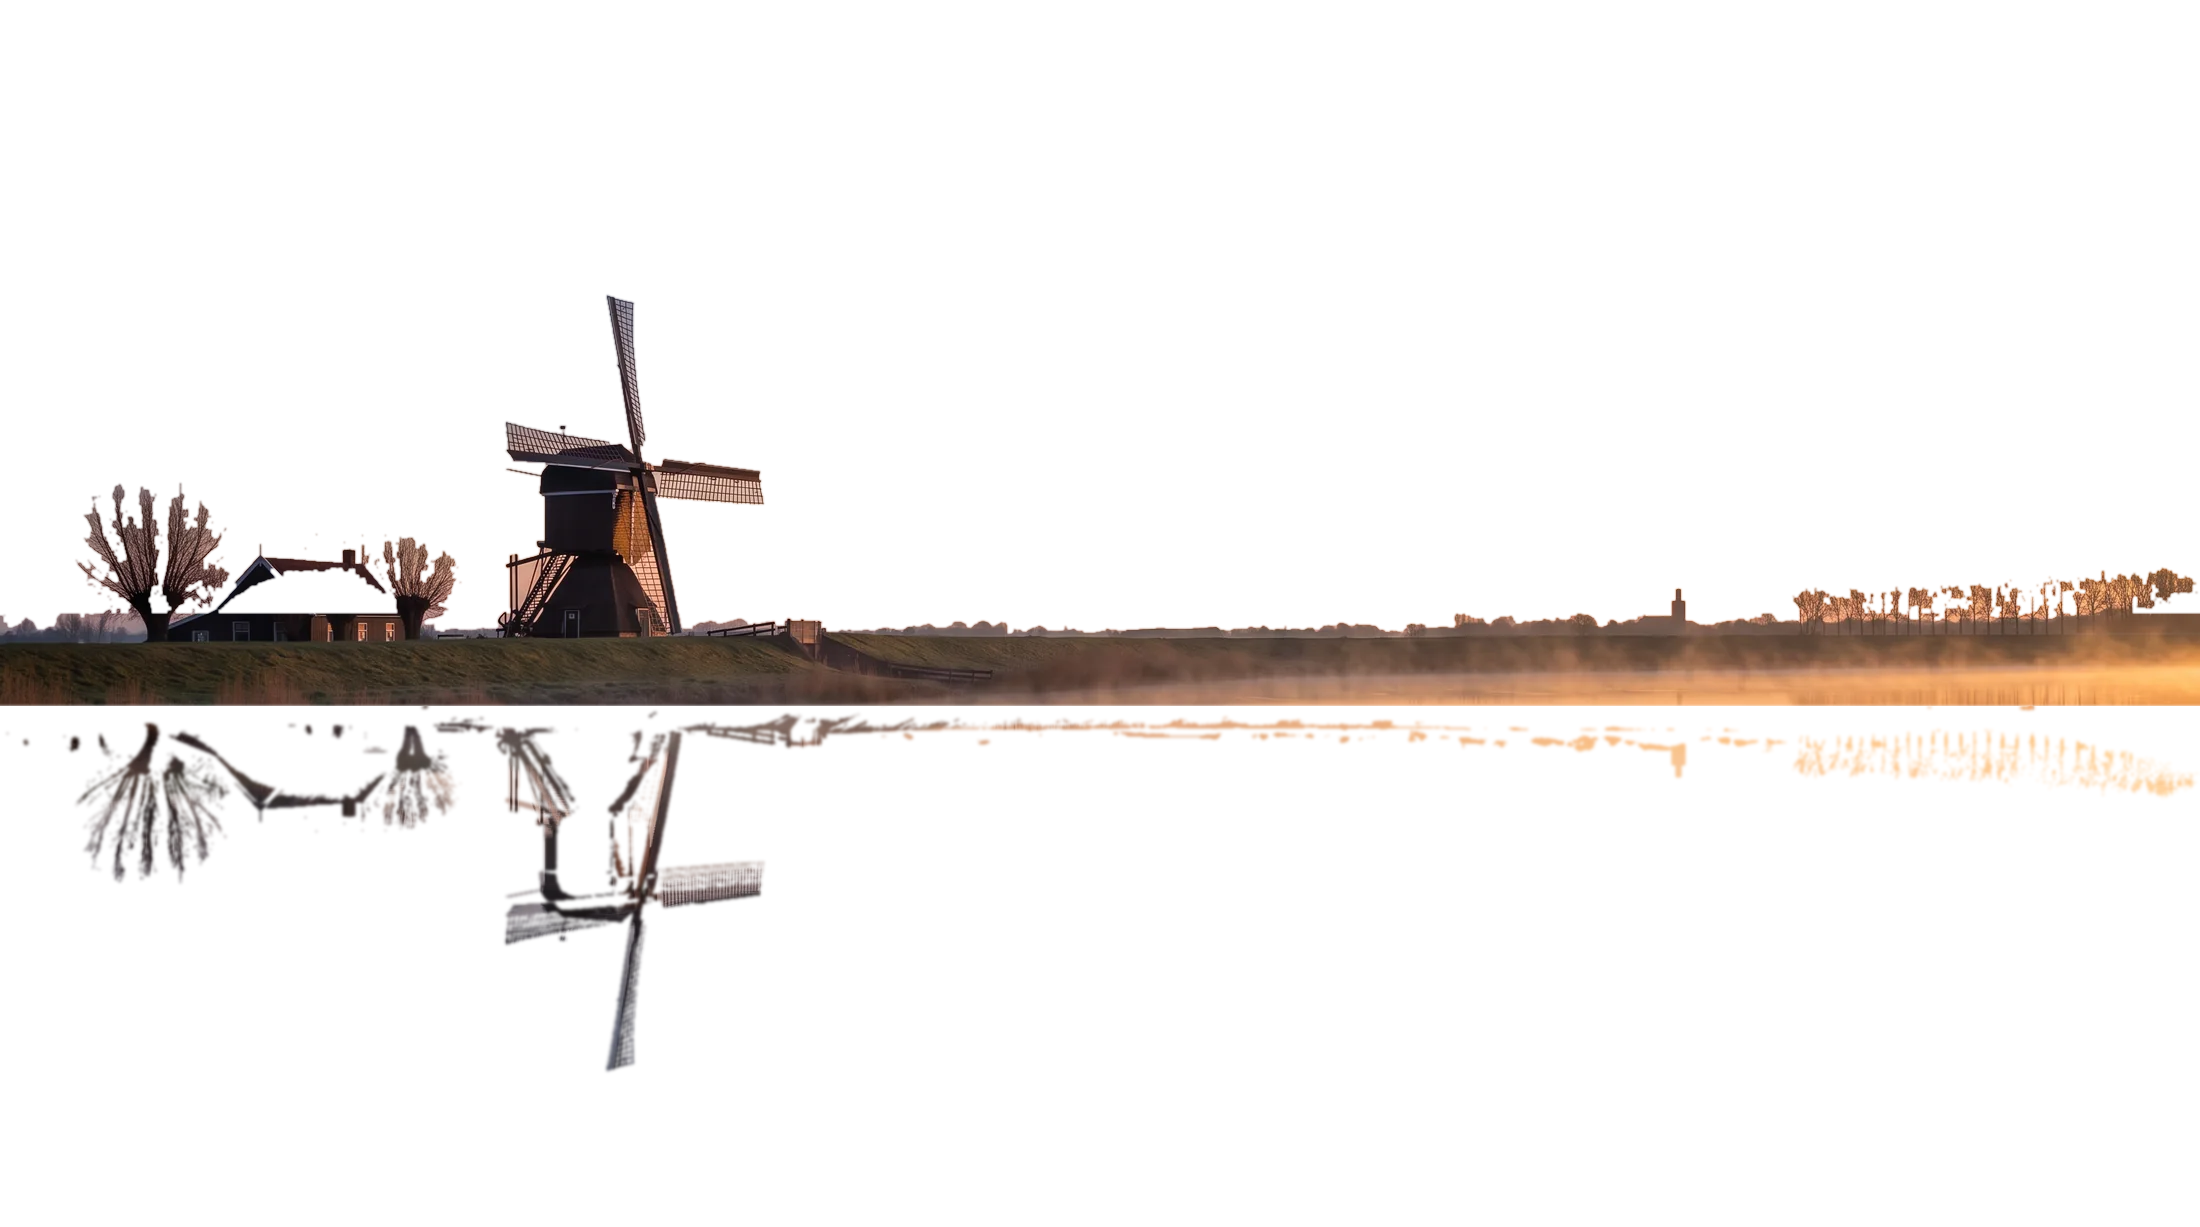
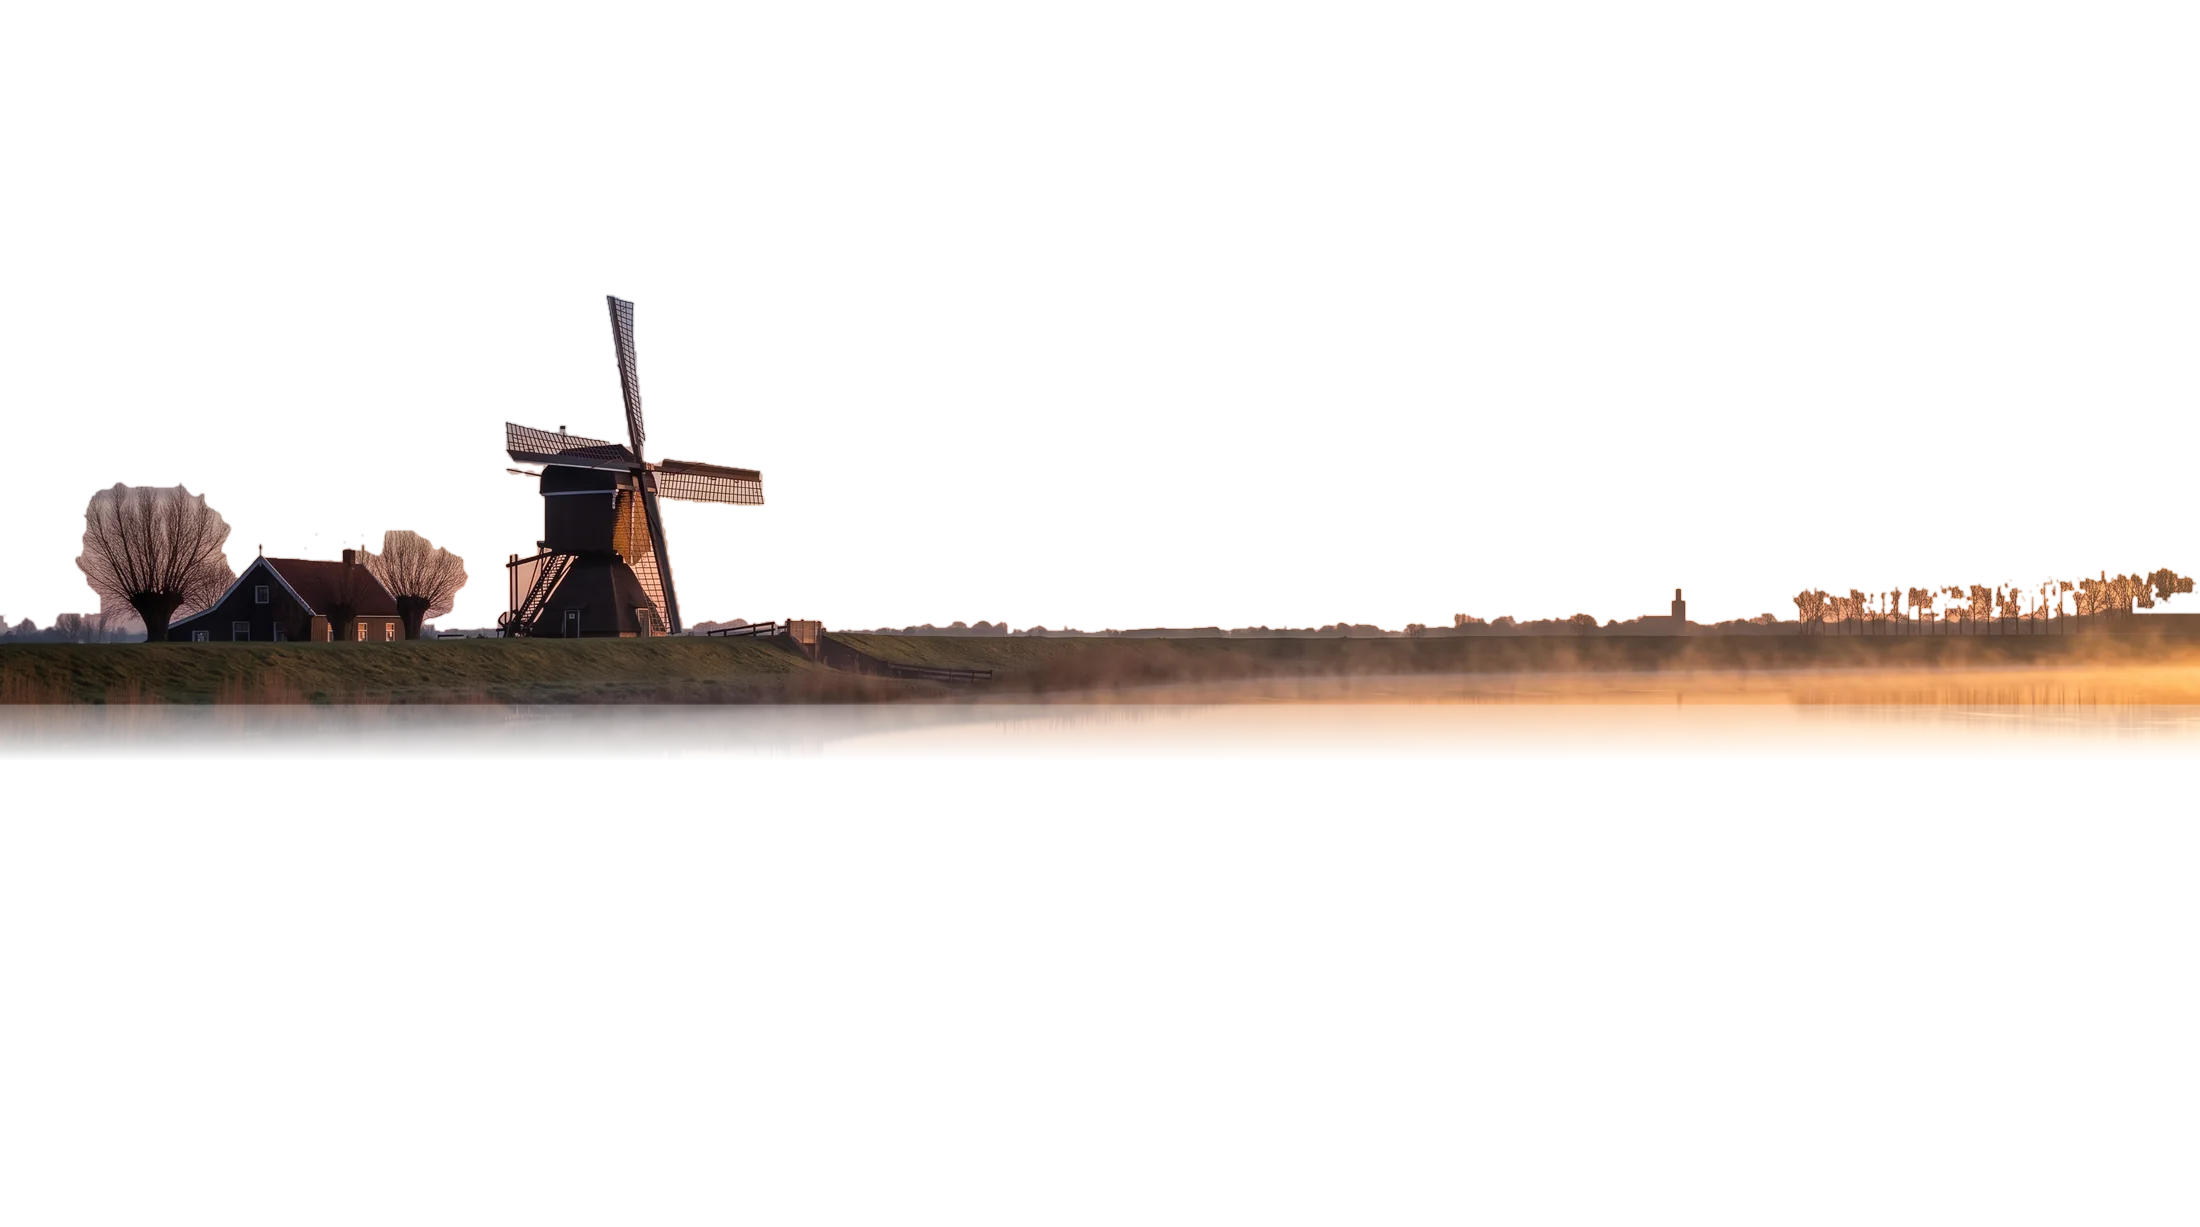
Hero: boerderij en spiegeling heel, lucht tot de bovenrand, header als pil
Het dak van de boerderij viel half buiten het molenmasker (te licht voor
de helderheidsdrempel) en de nevelband schemerde erdoorheen; de diepte-
kaart doet nu mee in het masker. De uitgesneden spiegeling sloot niet op
de echte aan en werd hakkelig; hij blijft nu in het water. In plaats
daarvan neemt de dijk een zachte strook water onder zich mee, zodat er bij
het scrollen geen harde rand tussen dijkvoet en water ontstaat.

De donkere balk boven de foto is weg: de hero heeft de kleur van de
bovenste fotorand en de foto loopt daar zacht in over. De header is vanaf
het begin een donkere glazen pil in plaats van pas na scrollen.

Claude-Session: https://claude.ai/code/session_01QicvtYBAYfMt63dRQtYt7L

Changed region(s): [[0.0, 0.5575, 1.0, 0.8672], [0.0309, 0.3716, 0.2164, 0.5265], [0.2164, 0.3716, 0.2473, 0.4026]]

diff --git a/app/globals.css b/app/globals.css
@@ -727,8 +727,10 @@ body {
 }
 
 /* Lucht boven de fotoplaten: van nacht bovenin naar de bovenkleur van de foto */
+/* De hero begint bovenaan de pagina: de lucht loopt door tot de rand, in de
+   kleur van de bovenste fotorand, zodat er geen donkere balk boven de foto staat. */
 .hero-lucht-foto {
-  background: linear-gradient(180deg, #0a0a0c 0%, #14121f 16%, #2c2745 30%, var(--hero-lucht-top, #5c5f93) 40%, var(--hero-lucht-top, #5c5f93) 100%);
+  background: var(--hero-lucht-top, #63618b);
 }
 .dageraad-lucht-foto {
   background: linear-gradient(180deg, #0a0a0c 0%, #12161e 16%, #3a4658 30%, var(--hero-lucht-top, #7b89a3) 40%, var(--hero-lucht-top, #7b89a3) 100%);
@@ -738,6 +740,11 @@ body {
 .lucht-masker {
   -webkit-mask-image: linear-gradient(180deg, transparent 0%, rgba(0,0,0,0.5) 10%, #000 26%);
   mask-image: linear-gradient(180deg, transparent 0%, rgba(0,0,0,0.5) 10%, #000 26%);
+}
+/* In de hero op brede schermen: zachte overgang van de egale kleur erboven naar de foto */
+.lucht-masker-zacht {
+  -webkit-mask-image: linear-gradient(180deg, transparent 0%, #000 14%);
+  mask-image: linear-gradient(180deg, transparent 0%, #000 14%);
 }
 
 /* Nevel drijft traag zijwaarts; het voorgrondriet wiegt in tegenfase */

diff --git a/components/home/PolderFoto.tsx b/components/home/PolderFoto.tsx
@@ -6,7 +6,7 @@
 // de verschuiving bij scrollen en muis verschilt per laag.
 //
 //   ver   lucht, horizon, water        blijft 30% achter bij de scroll
-//   dijk  molen, boerderij, wilgen,    22%   (één stuk grond: niets zweeft)
+//   dijk  molen, boerderij, wilgen,    25%   (één stuk grond: niets zweeft)
 //         dijkband
 //   nevel drijvende mist                18%
 //   riet  rietkraag aan de oever        8%
@@ -74,10 +74,10 @@ export function PolderFoto({
       aria-hidden
     >
       <Vlak naam="ver" lag={0.3} muis={5} scrollY={scrollY} muisX={muisX} muisY={muisY} reduced={reduced} schaal={1.06}>
-        <div className="absolute inset-0 lucht-masker">{laag('ver', true)}</div>
+        <div className={`absolute inset-0 ${mobielInStroom ? 'lucht-masker md:lucht-masker-zacht' : 'lucht-masker'}`}>{laag('ver', true)}</div>
       </Vlak>
 
-      <Vlak naam="dijk" lag={0.22} muis={9} scrollY={scrollY} muisX={muisX} muisY={muisY} reduced={reduced} schaal={1.06}>
+      <Vlak naam="dijk" lag={0.25} muis={9} scrollY={scrollY} muisX={muisX} muisY={muisY} reduced={reduced} schaal={1.06}>
         {laag('dijk', true)}
       </Vlak>
 

diff --git a/components/site/SiteHeader.tsx b/components/site/SiteHeader.tsx
@@ -75,10 +75,10 @@ export function SiteHeader() {
       <header className="sticky top-0 z-40 w-full pointer-events-none">
         <div className="band pt-3 sm:pt-4">
           <div
-            className={`pointer-events-auto flex items-center justify-between gap-3 rounded-[999px] px-3 sm:px-4 py-2 transition-all duration-500 ${
+            className={`pointer-events-auto flex items-center justify-between gap-3 rounded-[999px] px-3 sm:px-4 py-2 border border-[rgba(255,255,255,0.1)] backdrop-blur-xl transition-all duration-500 ${
               gescrold
-                ? 'bg-[rgba(12,12,15,0.72)] border border-[rgba(255,255,255,0.1)] shadow-[0_12px_40px_rgba(0,0,0,0.45)] backdrop-blur-xl'
-                : 'bg-transparent border border-transparent'
+                ? 'bg-[rgba(12,12,15,0.78)] shadow-[0_12px_40px_rgba(0,0,0,0.45)]'
+                : 'bg-[rgba(14,13,20,0.62)] shadow-[0_8px_30px_rgba(0,0,0,0.3)]'
             }`}
           >
             <Link href="/" className="flex items-center gap-2 pl-1 min-w-0" aria-label="FactumAI, naar de homepage">

diff --git a/components/home/Dageraad.tsx b/components/home/Dageraad.tsx
@@ -23,7 +23,7 @@ export function Dageraad({ variant }: { variant: LandschapVariant }) {
     <section
       ref={ref}
       className={`relative mt-28 overflow-hidden sm:mt-36 ${foto ? 'dageraad-lucht-foto' : 'dageraad-lucht'}`}
-      style={foto ? ({ '--hero-lucht-top': '#6b7d94' } as React.CSSProperties) : undefined}
+      style={foto ? ({ '--hero-lucht-top': '#6d7e98' } as React.CSSProperties) : undefined}
     >
       {foto ? (
         <PolderFoto scene={POLDER_DAGERAAD} muisX={muisX} muisY={muisY} x="50%" />

diff --git a/components/home/Hero.tsx b/components/home/Hero.tsx
@@ -23,7 +23,7 @@ export function Hero({ variant }: { variant: LandschapVariant }) {
     <section
       ref={ref}
       className={`relative overflow-hidden -mt-[72px] pt-[72px] md:min-h-[104svh] ${foto ? 'hero-lucht-foto' : 'hero-lucht'}`}
-      style={foto ? ({ '--hero-lucht-top': '#4a4468' } as React.CSSProperties) : undefined}
+      style={foto ? ({ '--hero-lucht-top': '#63618b' } as React.CSSProperties) : undefined}
     >
       {foto ? null : (
         <>

diff --git a/scripts/polder-lagen.py b/scripts/polder-lagen.py
@@ -112,6 +112,7 @@ def main() -> int:
     ap.add_argument("--riet-diepte", type=float, default=0.40)
     ap.add_argument("--voor-diepte", type=float, default=0.70)
     ap.add_argument("--lokaal", type=float, default=0.10, help="hoeveel donkerder dan de omgeving een silhouet moet zijn")
+    ap.add_argument("--dijk-diepte", type=float, default=0.05, help="diepte (0..1) waarboven een pixel in het venster bij de dijk hoort")
     a = ap.parse_args()
 
     master = Image.open(a.master).convert("RGB")
@@ -137,7 +138,9 @@ def main() -> int:
 
     # --- dijk: silhouet tegen de lucht binnen het venster, plus de dijkband zelf
     venster = (yy >= a.dijk_top) & (yy <= a.horizon + 0.012)
-    silhouet = donker & venster & (lum < a.dijk_drempel)
+    # Donker tegen de lucht, óf volgens de dieptekaart dichterbij dan de lucht
+    # (het dak van de boerderij vangt randlicht en is niet donker genoeg).
+    silhouet = venster & ((donker & (lum < a.dijk_drempel)) | (d >= a.dijk_diepte))
     band = (yy >= a.horizon - 0.045) & (yy <= a.horizon + 0.012)
     dijk = (silhouet | (band & (lum < a.dijk_drempel + 0.08))).astype(np.float32)
 
@@ -152,15 +155,15 @@ def main() -> int:
     bereikbaar = np.isin(labels, bovenrand)
     dijk[(vrij > 0) & ~bereikbaar] = 1.0
     dijk_alfa = np.clip(blur(dijk, 2) * 1.6, 0, 1)
-    # De spiegeling in het water hoort bij de molen: hetzelfde silhouet,
-    # gespiegeld om de waterlijn, zodat hij mee beweegt met de dijk.
-    waterlijn = int(round((a.horizon + 0.012) * h))
-    silhouet_boven = np.clip(blur((silhouet.astype(np.float32)), 2) * 1.6, 0, 1)
-    spiegel = np.zeros_like(dijk_alfa)
-    boven = silhouet_boven[:waterlijn][::-1]
-    spiegel[waterlijn : waterlijn + boven.shape[0]] = boven[: h - waterlijn]
-    spiegel = blur(spiegel, 3)
-    dijk_alfa = np.maximum(dijk_alfa, spiegel)
+    # De spiegeling blijft in het water (de verre plaat): een uitgesneden
+    # spiegeling sluit nooit precies aan op de echte en wordt hakkelig.
+    # Wel neemt de dijk een strook water onder zich mee, uitlopend naar
+    # doorzichtig: als hij bij het scrollen iets omhoog schuift, zit er dan
+    # geen harde rand tussen dijkvoet en water maar een zachte overgang in
+    # dezelfde tinten.
+    y0, y1 = a.horizon + 0.012, a.horizon + 0.075
+    strook = np.clip((y1 - yy) / (y1 - y0), 0, 1) * ((yy > y0 - 0.005) & (yy < y1))
+    dijk_alfa = np.maximum(dijk_alfa, np.broadcast_to(strook, (h, w)).astype(np.float32))
     # dichtgevuld onder het silhouet tot iets onder de horizon (grondcontact)
     onder = (yy > a.horizon - 0.02) & (yy <= a.horizon + 0.03)
     kolom_heeft = (dijk_alfa > 0.5).any(axis=0)[None, :]
@@ -182,8 +185,6 @@ def main() -> int:
     # van de molen staan die bij het schuiven dubbel wordt.
     gat = np.maximum(np.maximum(dijk_alfa, riet_alfa), voor_alfa)
     gat = cv2.dilate((gat > 0.25).astype(np.uint8), np.ones((17, 17), np.uint8)).astype(np.float32)
-    # rond de spiegeling ruimer: die ligt in de foto niet precies gespiegeld
-    gat = np.maximum(gat, cv2.dilate((spiegel > 0.15).astype(np.uint8), np.ones((41, 41), np.uint8)).astype(np.float32))
     ver = vul_horizontaal(rgb, gat)
     # riet-laag zelf bijgevuld waar de oever ervoor staat (anders gat bij verschuiven)
     riet_rgb = vul_horizontaal(rgb, cv2.dilate((voor_alfa > 0.25).astype(np.uint8), np.ones((9, 9), np.uint8)).astype(np.float32), 4)
